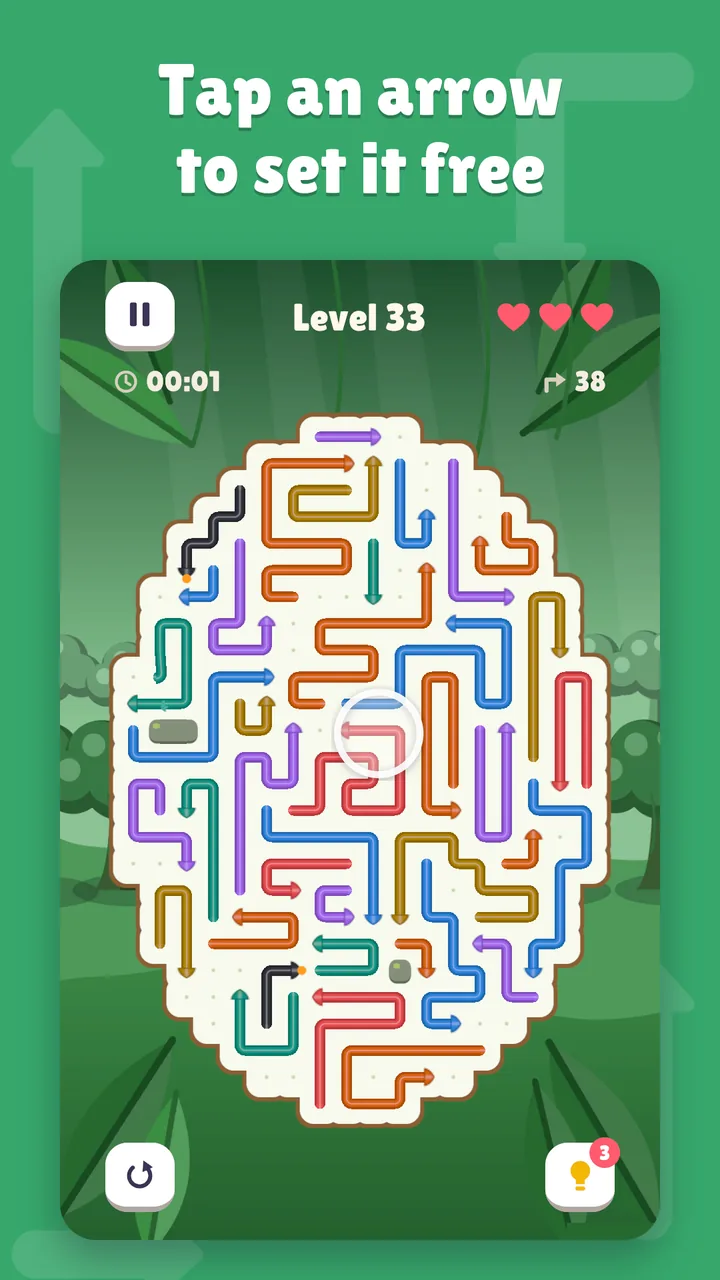
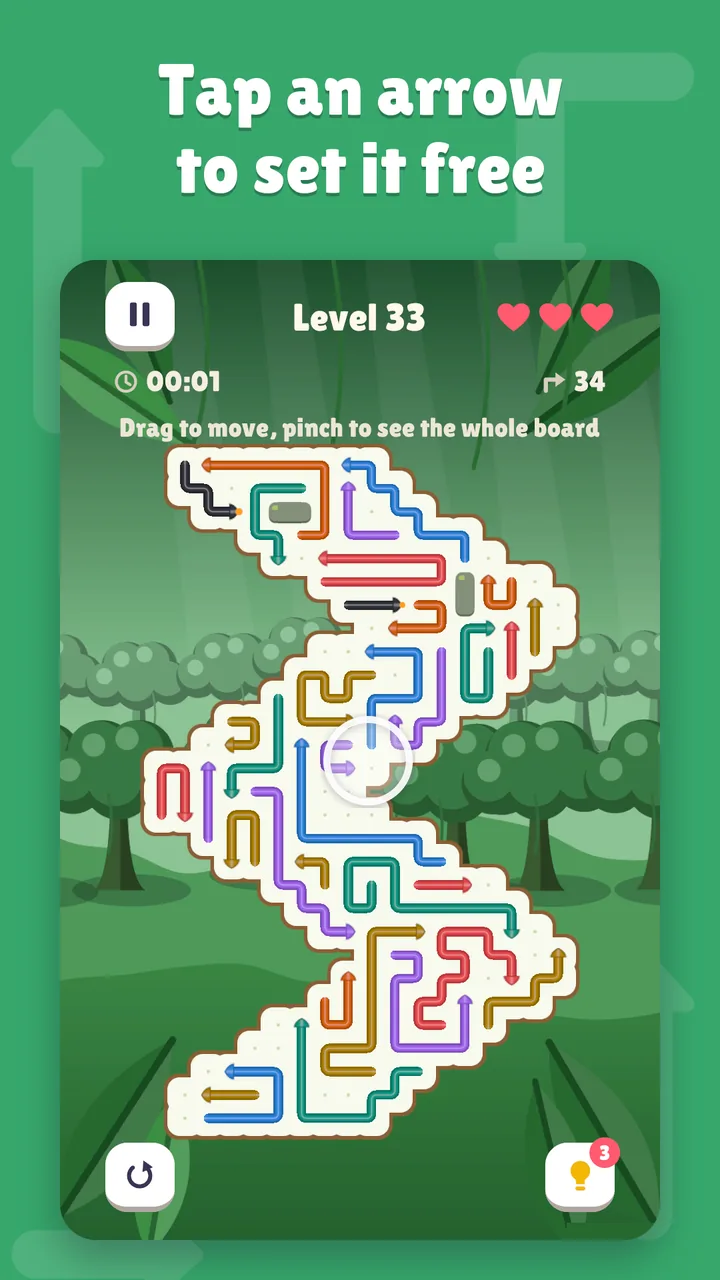
Exitwise: screenshots of the gameplay update in the gallery, and real shots on the mirror, portal, ice, paint tile, shutter, two-colour gate, chain bomb and colour switch wiki pages

Changed region(s): [[0.1528, 0.2812, 0.8556, 0.9062]]

diff --git a/exitwise/index.html b/exitwise/index.html
@@ -383,13 +383,14 @@
     <section class="block">
       <h2>A peek inside</h2>
       <div class="shots">
-        <img src="img/1-board.webp" alt="Tap an arrow to set it free: a Jungle level packed with bendy arrows" width="720" height="1280" loading="lazy">
+        <img src="img/1-board.webp" alt="Tap an arrow to set it free: level 33, a zigzag Jungle board packed with bendy arrows" width="720" height="1280" loading="lazy">
         <img src="img/2-map.webp" alt="Explore 17 colorful worlds: the level map in Candy land" width="720" height="1280" loading="lazy">
-        <img src="img/3-shapes.webp" alt="Boards in every shape: a heart-shaped board in the Volcano world" width="720" height="1280" loading="lazy">
-        <img src="img/4-giant.webp" alt="500+ levels, ever trickier: a giant hard level at night" width="720" height="1280" loading="lazy">
-        <img src="img/5-bombs.webp" alt="Blast rocks with bomb arrows: rocks, bombs and colour gates on a Lagoon level" width="720" height="1280" loading="lazy">
-        <img src="img/6-daily.webp" alt="A new puzzle every day: the daily challenge calendar with monthly rewards" width="720" height="1280" loading="lazy">
-        <img src="img/7-win.webp" alt="Earn coins on every level: the Level complete card" width="720" height="1280" loading="lazy">
+        <img src="img/3-mirrors.webp" alt="Mirrors bend an arrow’s path: three glass mirrors on a Volcano level" width="720" height="1280" loading="lazy">
+        <img src="img/4-portals.webp" alt="Portals carry arrows across: a pair of green portals on a cloud-shaped Lagoon board" width="720" height="1280" loading="lazy">
+        <img src="img/5-shutters.webp" alt="Shutters open as you clear arrows: a steel shutter on a diamond-shaped board in the Crystal caves" width="720" height="1280" loading="lazy">
+        <img src="img/6-chain.webp" alt="Chain bombs blast whole walls: a wall of rocks and its chain bomb beside a clock tower" width="720" height="1280" loading="lazy">
+        <img src="img/7-paint.webp" alt="Paint tiles recolor arrows: paint tiles on a ring-shaped board in the Autumn woods" width="720" height="1280" loading="lazy">
+        <img src="img/8-switches.webp" alt="Switches open color gates: colour switches on a heart-shaped board in Clockwork town" width="720" height="1280" loading="lazy">
       </div>
     </section>
 

diff --git a/exitwise/wiki/shutter/index.html b/exitwise/wiki/shutter/index.html
@@ -34,6 +34,7 @@
     <section class="block"><h2>What it does</h2><p>A shutter is a steel roller door over a rectangle of cells, 2×2 to 3×3 at first and up to 5 cells a side later, with a number on a plate. The arrows under it, even partly, are hidden and locked.</p><p>No path gets through a shutter that's down. Each time any arrow leaves the board the number drops by one, and at 0 the shutter rolls up and shows what was underneath.</p></section>
     <section class="block"><h2>How to beat it</h2><ul><li>Tapping a shutter only rattles it: it costs no heart.</li><li>Powerups leave hidden arrows alone: Remove arrow can't take them, and hints, Auto-play and the wand never pick them.</li><li>Like ice, the number runs out just as you run out of other arrows, so clear everything that isn't waiting on it.</li></ul></section>
     <section class="block note"><h2>Good to know</h2><ul><li>Level 221 introduces shutters with one, counting from 5. Bigger ones arrive from levels 320 and 420.</li><li>In-game tip: "Shutters roll up as arrows leave."</li></ul></section>
+    <section class="block"><h2>In the game</h2><figure class="shot"><img src="/exitwise/img/5-shutters.webp" alt="Level 221 in the Crystal caves: a steel shutter with its number on a diamond-shaped board" width="720" height="1280" loading="lazy"><figcaption>Level 221 introduces shutters.</figcaption></figure></section>
     <section class="block"><h2>Works with</h2><div class="cards small"><a class="card" href="/exitwise/wiki/ice/" data-text="ice a block with a number that melts as arrows leave.">
       <span class="card-pic pic-svg" aria-hidden="true"><svg viewBox='0 0 48 48'><rect x='7' y='7' width='34' height='34' rx='8' fill='#CFEFFB' stroke='#7CC6E6' stroke-width='3'/><path d='M13 13l5 3' stroke='#fff' stroke-width='2.5' stroke-linecap='round'/><path d='M29 15H19v8h10v9H19' fill='none' stroke='#1B4F8A' stroke-width='3.5' stroke-linecap='round' stroke-linejoin='round'/></svg></span>
       <span class="card-body"><b>Ice</b><span>A block with a number that melts as arrows leave.</span><span class="chip">Level 131+</span></span>

diff --git a/exitwise/wiki/portal/index.html b/exitwise/wiki/portal/index.html
@@ -34,6 +34,7 @@
     <section class="block"><h2>What it does</h2><p>Portals come in pairs of one colour: a coloured rim round a dark hole, with the pair's symbol. An arrow whose path reaches one portal comes out of the other, going the same way, and carries on.</p><p>Nothing rests on a portal and nothing is stopped by one. A pair's two cells are never in the same row or column.</p></section>
     <section class="block"><h2>How to beat it</h2><ul><li>When a path reaches a portal, jump to its pair (same colour and symbol) and keep following the path from there.</li><li>On a zoomed-in board the camera follows an escaping arrow through the portal, so you see where it comes out.</li></ul></section>
     <section class="block note"><h2>Good to know</h2><ul><li>Level 101 introduces portals with a single pair. Later levels have up to 6 pairs, each in its own colour.</li><li>In-game tip: "Portals send arrows out of their pair."</li></ul></section>
+    <section class="block"><h2>In the game</h2><figure class="shot"><img src="/exitwise/img/4-portals.webp" alt="Level 101 in the Lagoon world: a pair of green portals on a cloud-shaped board" width="720" height="1280" loading="lazy"><figcaption>Level 101 introduces portals.</figcaption></figure></section>
     <section class="block"><h2>Works with</h2><div class="cards small"><a class="card" href="/exitwise/wiki/mirror/" data-text="mirror turns an arrow's path by 90 degrees.">
       <span class="card-pic pic-svg" aria-hidden="true"><svg viewBox='0 0 48 48'><rect x='7' y='7' width='34' height='34' rx='8' fill='#EAF4F8' stroke='#C9DCE4' stroke-width='2'/><path d='M14 34L34 14' stroke='#4A5568' stroke-width='9' stroke-linecap='round'/><path d='M14 34L34 14' stroke='#BFE6F5' stroke-width='5' stroke-linecap='round'/><path d='M4 24h20V9' fill='none' stroke='#1C9FD8' stroke-width='4' stroke-linecap='round' stroke-linejoin='round'/><path d='M24 1l-6 8h12z' fill='#1C9FD8'/></svg></span>
       <span class="card-body"><b>Mirror</b><span>Turns an arrow's path by 90 degrees.</span><span class="chip">Level 61+</span></span>

diff --git a/exitwise/wiki/mirror/index.html b/exitwise/wiki/mirror/index.html
@@ -34,6 +34,7 @@
     <section class="block"><h2>What it does</h2><p>A mirror is one cell with a diagonal bar of glass, / or \. It holds no arrow and blocks nothing: an arrow whose path reaches it turns 90 degrees there and carries on.</p><p>A / turns a path heading right to go up, and one heading left to go down; a \ turns right into down and left into up. A path can bend more than once, and the arrow is free if the bent path is clear to the edge.</p></section>
     <section class="block"><h2>How to beat it</h2><ul><li>Follow the path, not the arrowhead: an arrow that looks blocked straight ahead may be free round the corner, and one that looks free may turn into a crowd.</li><li>Grid lines (the powerup) draw the bent paths for you.</li></ul></section>
     <section class="block note"><h2>Good to know</h2><ul><li>Mirrors first appear on level 61, three of them and nothing else; the tutorial taps an arrow that escapes round a bend.</li><li>In-game tip: "Mirrors turn arrows by 90 degrees."</li></ul></section>
+    <section class="block"><h2>In the game</h2><figure class="shot"><img src="/exitwise/img/3-mirrors.webp" alt="Level 61 in the Volcano world: three diagonal glass mirrors among the arrows" width="720" height="1280" loading="lazy"><figcaption>Level 61 introduces mirrors.</figcaption></figure></section>
     <section class="block"><h2>Works with</h2><div class="cards small"><a class="card" href="/exitwise/wiki/portal/" data-text="portal carries an arrow's path across the board to its pair.">
       <span class="card-pic pic-svg" aria-hidden="true"><svg viewBox='0 0 48 48'><circle cx='15' cy='32' r='10' fill='#2F2B38' stroke='#8C5CF0' stroke-width='4'/><path d='M15 27.5l4.5 4.5-4.5 4.5-4.5-4.5z' fill='#8C5CF0'/><circle cx='34' cy='15' r='10' fill='#2F2B38' stroke='#8C5CF0' stroke-width='4'/><path d='M34 10.5l4.5 4.5-4.5 4.5-4.5-4.5z' fill='#8C5CF0'/></svg></span>
       <span class="card-body"><b>Portal</b><span>Carries an arrow's path across the board to its pair.</span><span class="chip">Level 101+</span></span>

diff --git a/exitwise/wiki/ice/index.html b/exitwise/wiki/ice/index.html
@@ -34,6 +34,7 @@
     <section class="block"><h2>What it does</h2><p>Ice is one cell showing a number. It holds no arrow and stops every arrow, bombs too, and a bomb can't break it.</p><p>Each time any arrow leaves the board, by a tap or a powerup, the number drops by one. At 0 the ice melts and the way is open.</p></section>
     <section class="block"><h2>How to beat it</h2><ul><li>Arrows pointing at the ice have to wait: clear the other arrows first.</li><li>The number is just big enough: the ice melts right as you run out of other arrows to clear, so spend your moves on the arrows that don't wait on it.</li></ul></section>
     <section class="block note"><h2>Good to know</h2><ul><li>Level 131 introduces ice with one block counting from 5, and a tutorial that shows an arrow waiting on it.</li><li>In-game tip: "Ice melts as arrows leave."</li></ul></section>
+    <section class="block"><h2>In the game</h2><figure class="shot"><img src="/exitwise/wiki/img/ice.webp" alt="Level 131 in the Lagoon world: an ice cell showing 4 at the edge of the board" width="720" height="1280" loading="lazy"><figcaption>Level 131 introduces ice.</figcaption></figure></section>
     <section class="block"><h2>Works with</h2><div class="cards small"><a class="card" href="/exitwise/wiki/shutter/" data-text="shutter a roller door that hides arrows until it rolls up.">
       <span class="card-pic pic-svg" aria-hidden="true"><svg viewBox='0 0 48 48'><rect x='5' y='7' width='38' height='34' rx='5' fill='#9AA3AE'/><path d='M5 14h38M5 21h38M5 28h38M5 35h38' stroke='#7B8590' stroke-width='2'/><rect x='16' y='17' width='16' height='15' rx='3' fill='#2F2B38'/><path d='M21 21h6v3.5h-5m5 0V28h-6' fill='none' stroke='#F2F4F6' stroke-width='2.5' stroke-linecap='round' stroke-linejoin='round'/></svg></span>
       <span class="card-body"><b>Shutter</b><span>A roller door that hides arrows until it rolls up.</span><span class="chip">Level 221+</span></span>

diff --git a/exitwise/wiki/colour-switch/index.html b/exitwise/wiki/colour-switch/index.html
@@ -34,6 +34,7 @@
     <section class="block"><h2>What it does</h2><p>A colour switch is a dark square base with a round button in its colour, and that colour's symbol. It never blocks.</p><p>The first arrow, or bomb on its way to its rock, that passes over it presses it: every one-colour gate of that colour on the board opens, wherever it is, and the switch is used up. Two-colour gates don't react to switches.</p></section>
     <section class="block"><h2>How to beat it</h2><ul><li>A gate far away with no arrow of its colour in sight? Look for a switch of its colour on a free arrow's path.</li><li>A switch earlier on an arrow's own path opens a gate further along that same path before the arrow gets there.</li></ul></section>
     <section class="block note"><h2>Good to know</h2><ul><li>Level 311 introduces switches with one switch and its gate.</li><li>In-game tip: "A switch opens every gate of its colour."</li></ul></section>
+    <section class="block"><h2>In the game</h2><figure class="shot"><img src="/exitwise/img/8-switches.webp" alt="Level 311 in Clockwork town: colour switches on a heart-shaped board" width="720" height="1280" loading="lazy"><figcaption>Level 311 introduces colour switches.</figcaption></figure></section>
     <section class="block"><h2>Works with</h2><div class="cards small"><a class="card" href="/exitwise/wiki/colour-gate/" data-text="colour gate lets only its own colour through, then opens for good.">
       <span class="card-pic pic-svg" aria-hidden="true"><svg viewBox='0 0 48 48'><rect x='8' y='8' width='32' height='32' rx='8' fill='#1C9FD8'/><rect x='14' y='14' width='20' height='20' rx='4' fill='none' stroke='#fff' stroke-width='3'/><circle cx='24' cy='24' r='4' fill='#fff'/></svg></span>
       <span class="card-body"><b>Colour gate</b><span>Lets only its own colour through, then opens for good.</span><span class="chip">Level 41+</span></span>

diff --git a/exitwise/wiki/two-colour-gate/index.html b/exitwise/wiki/two-colour-gate/index.html
@@ -34,6 +34,7 @@
     <section class="block"><h2>What it does</h2><p>A two-colour gate holds two symbols: the first on the left and bigger. Its frame shows the colour it lets through next.</p><p>At first only the first colour gets through, which uses up its pip. Then the second colour gets through too, and when it passes the gate opens for good. Other colours and bombs bump until then.</p></section>
     <section class="block"><h2>How to beat it</h2><ul><li>Send an arrow of the big symbol's colour first, then one of the small symbol's colour.</li><li>If a powerup removes an arrow of the second colour early, its pip is still used, so the gate never closes on you.</li></ul></section>
     <section class="block note"><h2>Good to know</h2><ul><li>Level 251 introduces them with a single two-colour gate.</li><li>In-game tip: "Two-colour gate: big symbol goes first."</li></ul></section>
+    <section class="block"><h2>In the game</h2><figure class="shot"><img src="/exitwise/wiki/img/two-colour-gate.webp" alt="Level 251 in the Crystal caves: a two-colour gate near the bottom of the board" width="720" height="1280" loading="lazy"><figcaption>Level 251 introduces two-colour gates.</figcaption></figure></section>
     <section class="block"><h2>Works with</h2><div class="cards small"><a class="card" href="/exitwise/wiki/colour-gate/" data-text="colour gate lets only its own colour through, then opens for good.">
       <span class="card-pic pic-svg" aria-hidden="true"><svg viewBox='0 0 48 48'><rect x='8' y='8' width='32' height='32' rx='8' fill='#1C9FD8'/><rect x='14' y='14' width='20' height='20' rx='4' fill='none' stroke='#fff' stroke-width='3'/><circle cx='24' cy='24' r='4' fill='#fff'/></svg></span>
       <span class="card-body"><b>Colour gate</b><span>Lets only its own colour through, then opens for good.</span><span class="chip">Level 41+</span></span>

diff --git a/exitwise/wiki/chain-bomb/index.html b/exitwise/wiki/chain-bomb/index.html
@@ -34,6 +34,7 @@
     <section class="block"><h2>What it does</h2><p>A chain bomb is a bomb with a spark on every cell of its body, like a fuse. Its blast runs through every rock touching the one it hits, and on through the rocks touching those: each takes one hit.</p><p>Rock walls are lines of 3 to 8 one-cell rocks, sometimes with one bend. One chain bomb opens the whole wall. A level-2 or level-3 rock in a wall takes one hit from the blast and needs bombs of its own for the rest.</p></section>
     <section class="block"><h2>How to beat it</h2><ul><li>Find the chain bomb aimed at the wall and clear its path, like any bomb.</li><li>Check the wall for dotted rocks: they need their own bombs as well.</li></ul></section>
     <section class="block note"><h2>Good to know</h2><ul><li>Level 281 introduces walls with one wall of 4 or 5 rocks and its chain bomb. From level 282 every level has at least one wall, and hard levels one more.</li></ul></section>
+    <section class="block"><h2>In the game</h2><figure class="shot"><img src="/exitwise/img/6-chain.webp" alt="Level 281 in Clockwork town: a wall of rocks and its chain bomb beside the clock tower" width="720" height="1280" loading="lazy"><figcaption>Level 281 introduces chain bombs.</figcaption></figure></section>
     <section class="block"><h2>Works with</h2><div class="cards small"><a class="card" href="/exitwise/wiki/rock/" data-text="rock stops every arrow until its bombs blow it up.">
       <span class="card-pic pic-svg" aria-hidden="true"><svg viewBox='0 0 48 48'><path d='M9 34l5-15 11-7 12 8 3 14-14 5z' fill='#8E857B'/><path d='M14 19l11-7 12 8-11 4z' fill='#A8A096'/><path d='M26 24l11-4 3 14-14 5z' fill='#766D64'/></svg></span>
       <span class="card-body"><b>Rock</b><span>Stops every arrow until its bombs blow it up.</span><span class="chip">Level 21+</span></span>

diff --git a/exitwise/wiki/paint-tile/index.html b/exitwise/wiki/paint-tile/index.html
@@ -34,6 +34,7 @@
     <section class="block"><h2>What it does</h2><p>A paint tile is a round splash of colour with that colour's symbol. It never blocks.</p><p>An arrow that flies over it takes its colour and symbol for the rest of its path, so it can get through, and open, a gate of that colour further on. Bombs stay bombs. The paint stays for later arrows too.</p></section>
     <section class="block"><h2>How to beat it</h2><ul><li>A gate with no arrow of its colour in sight? Look for a paint tile on some arrow's path in front of it.</li><li>The tutorial shows an arrow of another colour picking up paint and opening a gate.</li></ul></section>
     <section class="block note"><h2>Good to know</h2><ul><li>Level 191 introduces paint with one tile and the one gate only its paint opens.</li><li>In-game tip: "Paint gives an arrow its colour."</li></ul></section>
+    <section class="block"><h2>In the game</h2><figure class="shot"><img src="/exitwise/img/7-paint.webp" alt="Level 191 in the Autumn woods: blue paint tiles on a ring-shaped board" width="720" height="1280" loading="lazy"><figcaption>Level 191 introduces paint tiles.</figcaption></figure></section>
     <section class="block"><h2>Works with</h2><div class="cards small"><a class="card" href="/exitwise/wiki/colour-gate/" data-text="colour gate lets only its own colour through, then opens for good.">
       <span class="card-pic pic-svg" aria-hidden="true"><svg viewBox='0 0 48 48'><rect x='8' y='8' width='32' height='32' rx='8' fill='#1C9FD8'/><rect x='14' y='14' width='20' height='20' rx='4' fill='none' stroke='#fff' stroke-width='3'/><circle cx='24' cy='24' r='4' fill='#fff'/></svg></span>
       <span class="card-body"><b>Colour gate</b><span>Lets only its own colour through, then opens for good.</span><span class="chip">Level 41+</span></span>

diff --git a/exitwise/wiki/how-to-play/index.html b/exitwise/wiki/how-to-play/index.html
@@ -33,7 +33,7 @@
     </header>
     <section class="block"><h2>What it does</h2><p>Every arrow points somewhere. Tap one and it slides off the board along its path, but only if nothing is in its way. The path runs straight on, except where a mirror turns it or a portal carries it across the board.</p><p>Clear every arrow to win the level. Each arrow you clear can only free others, so a level can never become impossible.</p></section>
     <section class="block"><h2>How it works for you</h2><ul><li>Start with arrows whose path to the edge is already empty.</li><li>Big boards open zoomed in: pinch or scroll to zoom, and drag to move.</li></ul></section>
-    <section class="block"><h2>In the game</h2><figure class="shot"><img src="/exitwise/img/1-board.webp" alt="A Jungle level: an oval board packed with bendy arrows in six colours" width="720" height="1280" loading="lazy"><figcaption>Level 33, in the Jungle world.</figcaption></figure></section>
+    <section class="block"><h2>In the game</h2><figure class="shot"><img src="/exitwise/img/1-board.webp" alt="Level 33 in the Jungle world: a zigzag board packed with bendy arrows in six colours" width="720" height="1280" loading="lazy"><figcaption>Level 33, in the Jungle world.</figcaption></figure></section>
     <section class="block"><h2>Works with</h2><div class="cards small"><a class="card" href="/exitwise/wiki/hearts/" data-text="hearts you have 3. tapping a blocked arrow costs one.">
       <span class="card-pic pic-svg" aria-hidden="true"><svg viewBox='0 0 48 48'><path d='M24 40S7 29 7 17a8.5 8.5 0 0 1 17-3 8.5 8.5 0 0 1 17 3c0 12-17 23-17 23z' fill='#FF5A6E'/></svg></span>
       <span class="card-body"><b>Hearts</b><span>You have 3. Tapping a blocked arrow costs one.</span><span class="chip">Level 1+</span></span>
